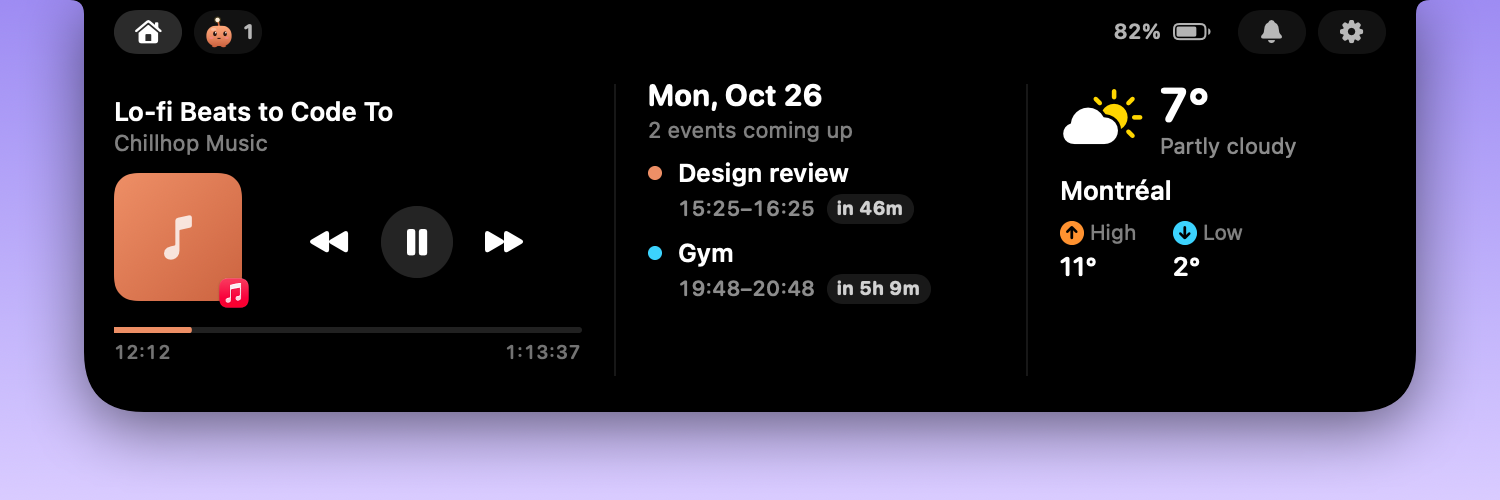
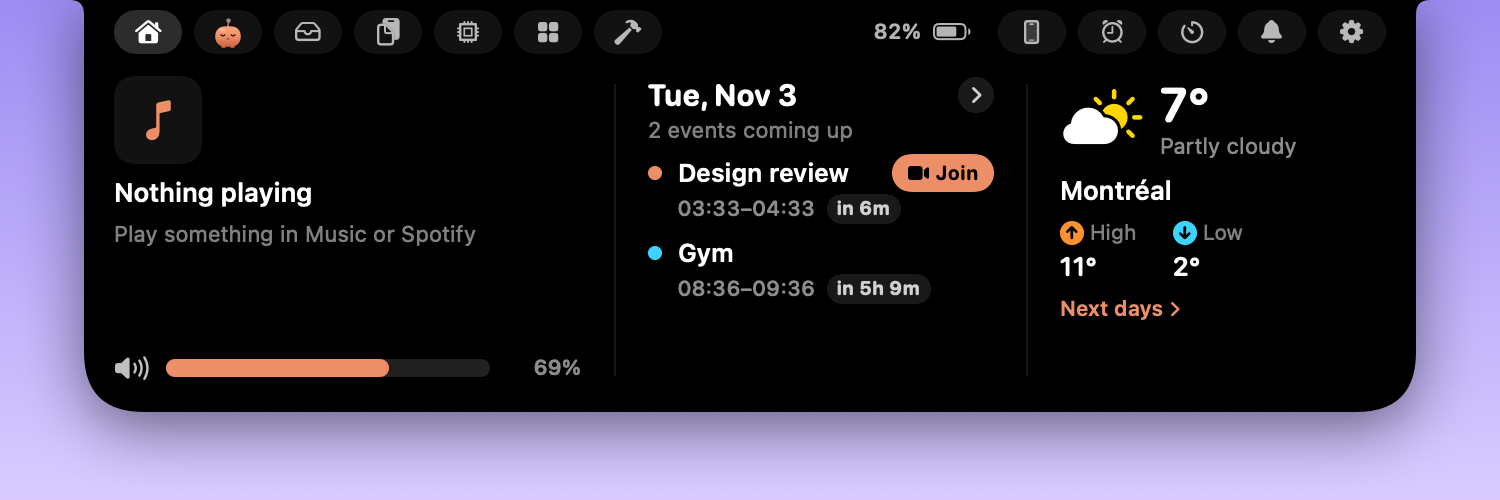
README: live view, Mac, Tools and Dev tabs, meetings, forecast, teleprompter (#5)
* README: the live view, Mac, Tools and Dev tabs, meetings, forecast and teleprompter

For the release that ships these features; merge after it's out.

Claude-Session: https://claude.ai/code/session_013r9WJLibuy5G26AZf7AY7u

* README: updated Dev tab screenshot

Claude-Session: https://claude.ai/code/session_013r9WJLibuy5G26AZf7AY7u

---------

diff --git a/README.md b/README.md
@@ -32,7 +32,12 @@
   - [Claude asks, Pip pops open](#claude-asks-pip-pops-open)
   - [Pip in the notch](#pip-in-the-notch)
   - [The Pip tab](#the-pip-tab)
+  - [The live view](#the-live-view)
   - [The dashboard](#the-dashboard)
+  - [The Mac tab](#the-mac-tab)
+  - [The Tools tab](#the-tools-tab)
+  - [The teleprompter](#the-teleprompter)
+  - [The Dev tab](#the-dev-tab)
   - [The wheel](#the-wheel)
   - [The file wheel](#the-file-wheel)
 - [Download and install](#download-and-install)
@@ -56,7 +61,11 @@
 - 🟠 **Claude asks → Pip pops open.** Allow, Always allow, Deny, or *Answer in Claude* to use Claude's own prompt.
   Works with Claude Code in any terminal and in the Claude app's Code tab, and with OpenAI Codex
   (CLI, IDE extension and the ChatGPT desktop app).
-- 🎵 **Hover the island** for music (Apple Music / Spotify), your next events, the weather, your battery and a volume slider.
+- 👀 **Watch Claude work.** The live view follows a session step by step, with the diff it's writing and the output of its commands.
+- 🎵 **Hover the island** for music (Apple Music / Spotify), your next events (with a **Join** button for video calls), the weather and the next days, your battery and a volume slider.
+- 🖥 **Mac tab:** CPU, GPU, memory, network, disk and the batteries of your AirPods, Magic Mouse and Keyboard.
+- 🧰 **Tools tab:** quick notes, Apple Reminders, a color picker, a camera mirror and a teleprompter that runs right under your camera.
+- 🛠 **Dev tab:** your local dev servers, your GitHub Actions, and *Ask Claude Code* to start a task from the notch.
 - 🔊 **Press the volume keys** and Pip shows the level on a 16-step bar (drag it, or tap the speaker to mute).
 - 🎯 **The wheel.** Press **⌃⌥Space** for a pie menu under the mouse with your apps, files, websites, commands and Pip's own switches.
 - 🗂 **Drag a file, hold Shift.** A file wheel pops up to convert, compress, resize, rotate, merge or lock it.
@@ -104,6 +113,18 @@ Most of the time Pip stays small. It grows only when something needs your attent
 Every Claude session in one list: **working**, **waiting**, **needs your OK** (red dot) or **done** (green dot).
 Pip tells you which project is waiting for you, and what each session is asking for.
 
+### The live view
+
+When Claude is working, hover the island and the Pip tab follows that session live.
+
+<p align="center"><img src="assets/screenshots/64-live-view.png" width="760" alt="Live view: Claude's steps (Reading, Searching, Run the tests, Editing invoice.ts), the diff being written, and the test output"></p>
+
+- **Steps:** each thing Claude does (Read, Search, Edit, Run…) with a spinner, then a ✓ or a ✗.
+- **The diff:** the lines Claude is changing type themselves out, removed in red, added in green.
+- **The terminal:** the command it runs and the last lines it printed.
+- **All sessions** takes you back to the list. Turn it off in Settings → Claude.
+- Pet Pip: hover it for heart eyes, click for a happy hop. Don't poke it too much.
+
 ### The dashboard
 
 Hover over the island to open it.
@@ -111,14 +132,61 @@ Hover over the island to open it.
 <p align="center"><img src="assets/screenshots/5-dashboard.png" width="760" alt="Dashboard with music player, calendar events and weather"></p>
 
 - **Music:** what's playing in Apple Music or Spotify, with artwork, progress and play / pause / skip.
-- **Calendar:** today's next events and how long until each one starts.
-- **Weather:** temperature, conditions, and today's high and low where you are.
+- **Calendar:** today's next events and how long until each one starts. Events with a Zoom, Teams, Meet, Webex or
+  FaceTime link get a **Join** button, and a card pops up a minute before the call.
+- **Weather:** temperature, conditions, and today's high and low where you are. **Next days** shows the next hours and
+  the next four days.
+- **Swipe** sideways with two fingers to flip between pages.
 - **Top bar:** switch between the dashboard and the Pip tab, see your battery, and open settings with the gear.
 
 <details>
 <summary>When nothing is playing</summary>
 <p align="center"><img src="assets/screenshots/7-dashboard-empty.png" width="760" alt="Dashboard with no music playing"></p>
 </details>
+
+### The Mac tab
+
+<p align="center"><img src="assets/screenshots/58-mac-tab.png" width="760" alt="Mac tab: CPU, memory, GPU, network, disk, free space and device batteries"></p>
+
+- **CPU** with the last minute as a line, **GPU**, **memory**, **network** and **disk** speed, and **free space**.
+- **Devices:** this Mac's battery, each AirPod and the case, Magic Mouse, Keyboard and Trackpad. Low batteries turn red.
+- Pip only checks while the tab is open.
+
+### The Tools tab
+
+<table>
+<tr>
+<td align="center" width="50%"><img src="assets/screenshots/61-tools-notes.png" alt="Notes"><br><sub><b>Notes</b>: <b>bold</b>, <i>italic</i>, lists and links. Click one to copy it, pin the ones you need</sub></td>
+<td align="center" width="50%"><img src="assets/screenshots/62-tools-reminders.png" alt="Reminders"><br><sub><b>Reminders</b>: tick them off, or type “pay rent tomorrow 5pm” and Pip sets the alarm</sub></td>
+</tr>
+<tr>
+<td align="center"><img src="assets/screenshots/63-tools-color.png" alt="Color picker"><br><sub><b>Color</b>: pick any pixel on screen, copy as HEX, RGB or HSL, see the contrast</sub></td>
+<td align="center"><img src="assets/screenshots/65-tools-camera.png" alt="Camera"><br><sub><b>Camera</b>: a mirror before your call. Photos and videos land in Pictures/Pip</sub></td>
+</tr>
+</table>
+
+- Notes stay on your Mac. Reminders use your own Apple Reminders.
+- The camera is on only while the Camera page is open, so the green light never lingers.
+
+### The teleprompter
+
+Write or open your script (text, Word, RTF or PDF) in **Tools → Prompter**, set your pace, and press **Start**.
+
+<p align="center"><img src="assets/screenshots/67-prompter.png" width="640" alt="The teleprompter in the island: the current line with the word to say in orange, the next line, and the time left"></p>
+
+The island shows your script right under the camera, so you read it and still look people in the eye. The word to
+say is in orange. Pause, go back or ahead a line, or change the speed without stopping.
+
+### The Dev tab
+
+<p align="center"><img src="assets/screenshots/68-dev-tab.png" width="760" alt="Dev tab: dev servers by port, CI runs, and Ask Claude Code"></p>
+
+- **Dev servers:** anything you're running locally (node, bun, python, ruby, php, postgres…) by port and project.
+  Open it in the browser, or stop it (click twice).
+- **CI:** the latest GitHub Actions run of your recent Claude projects, and a card when one fails. It uses your own
+  [`gh`](https://cli.github.com) login (run `gh auth login` once). Pip stores no token.
+- **Ask Claude Code:** type a task, pick a project, press Start. Claude Code opens in Terminal and gets to work.
+- It also shows which coding agents are running right now (Claude Code, Codex, Gemini CLI, Cursor…).
 
 ### The wheel
 
@@ -341,6 +409,16 @@ Claude Code asks for permission in the terminal as usual. Nothing breaks.
 
 Claude's requests go from Claude Code to Pip on your own Mac (`127.0.0.1`), and your answer goes straight back.
 Requests coming from a web browser are refused.
+
+The live view, notes, clipboard history and system stats stay on your Mac. The weather comes from Open-Meteo
+(no account), and CI goes through your own `gh` login.
+</details>
+
+<details>
+<summary><b>Why does Pip ask for the camera or Reminders?</b></summary>
+
+Only when you use those pages: the camera for the mirror in Tools → Camera (on only while that page is open),
+Reminders for Tools → Reminders. Say no and everything else still works.
 </details>
 
 <details>
